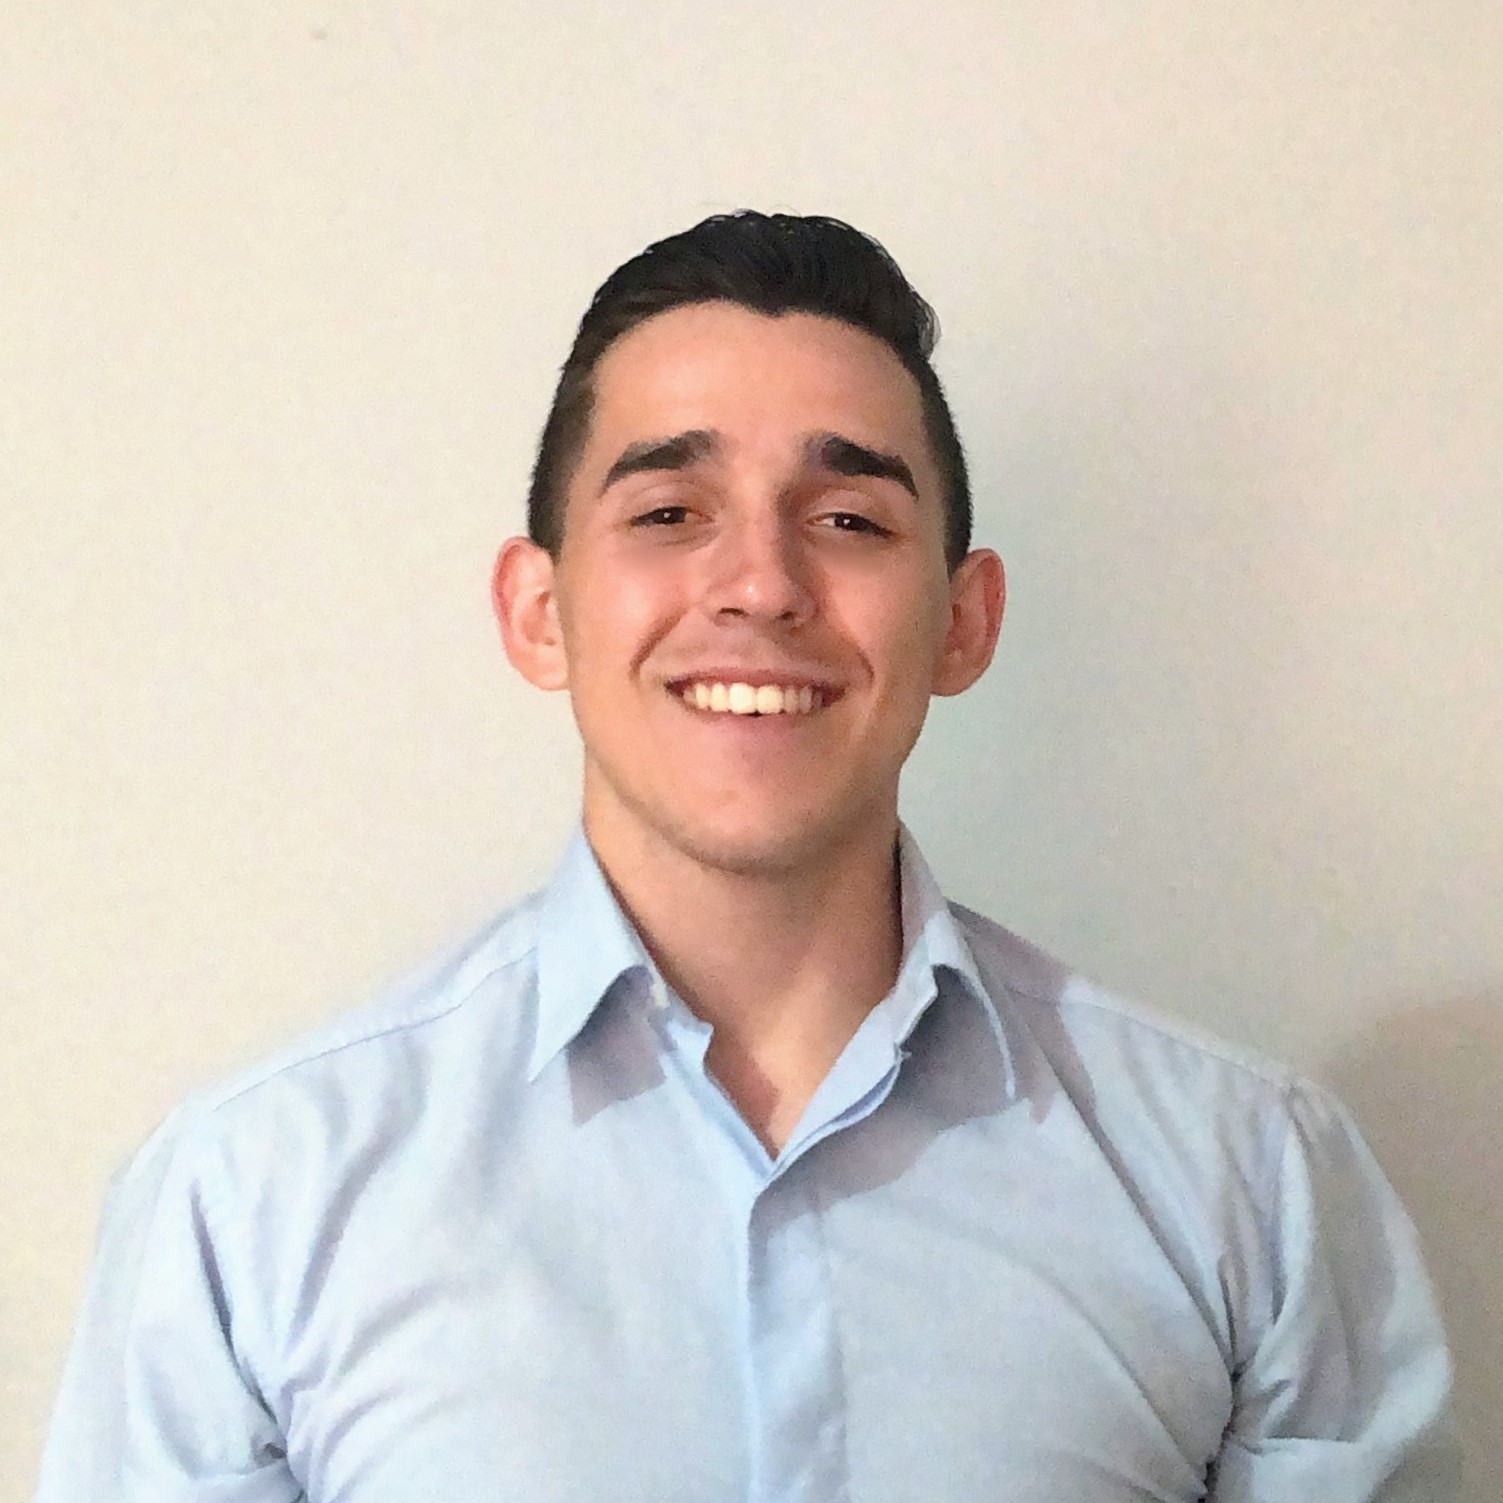
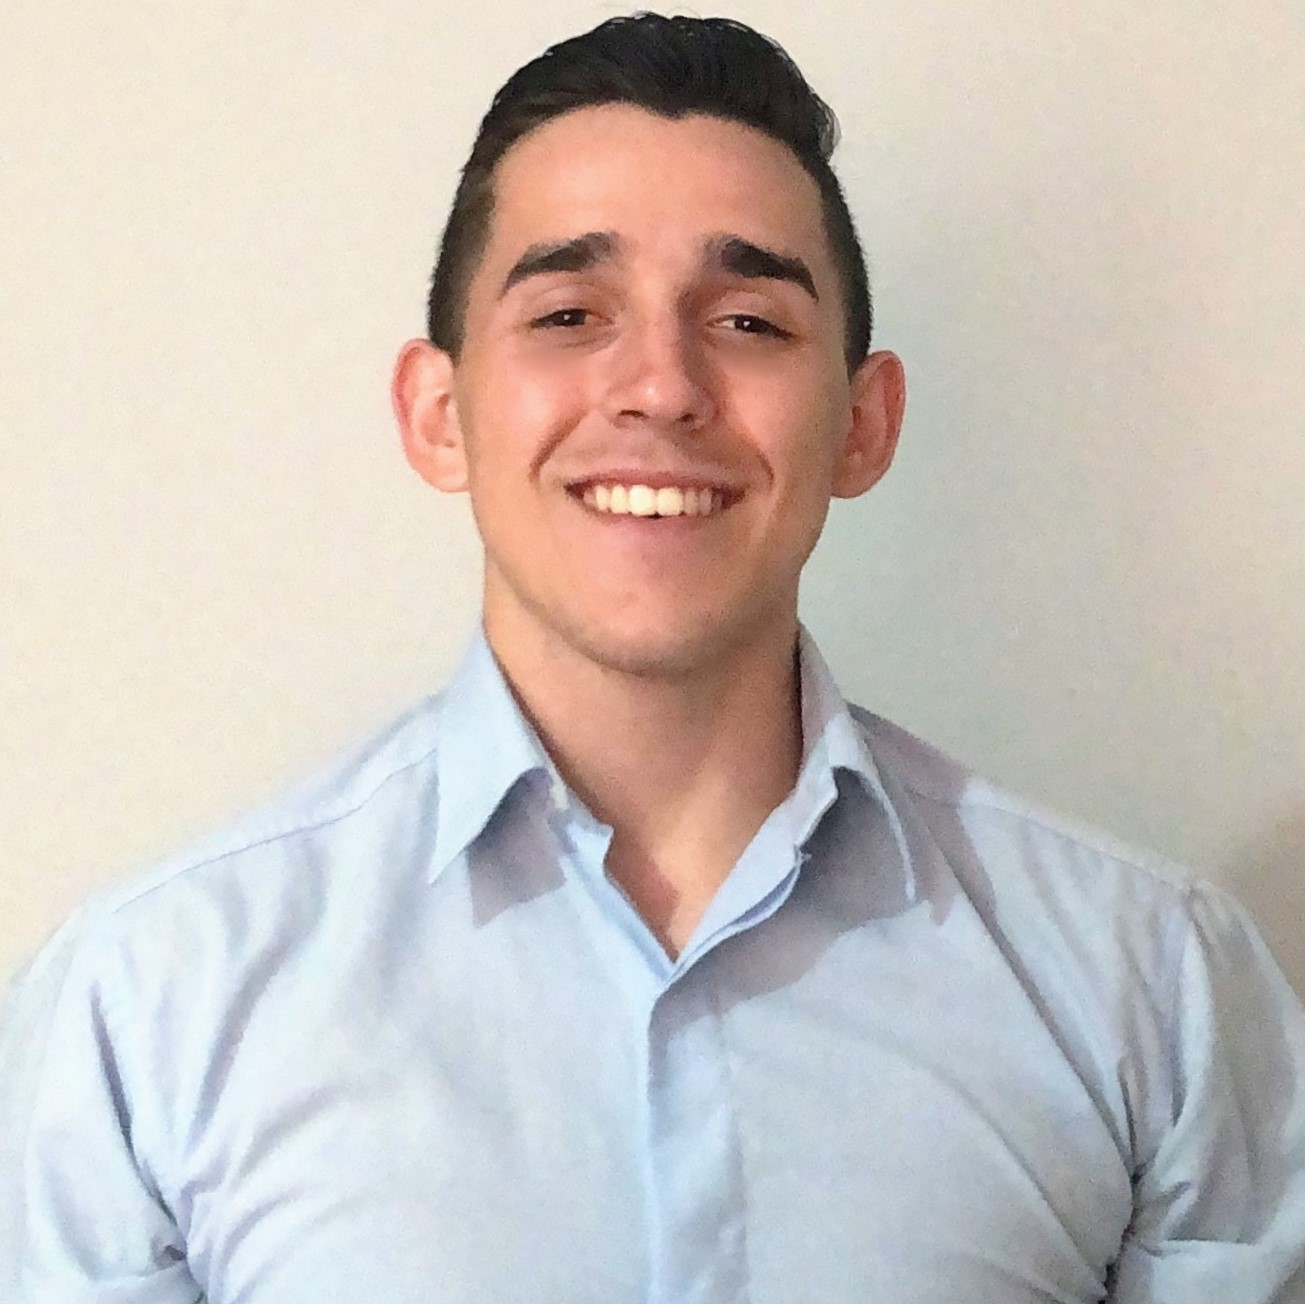
feat(Hooks): created useScroll

diff --git a/src/components/SkillsCards/SkillsCards.tsx b/src/components/SkillsCards/SkillsCards.tsx
@@ -1,32 +1,54 @@
 import  React        from "react";
 import { useEffect } from "react";
 import { useRef }    from "react";
+import { useScroll } from "../../hooks";
 
 const SkillsCards: React.FC = () => {
   const frontSkillsRef = useRef<HTMLDivElement>(null);
   const backSkillsRef  = useRef<HTMLDivElement>(null);
   const toolsSkillsRef = useRef<HTMLDivElement>(null);
 
-  const handleScroll = () => {
-    const backSkillsElement :HTMLDivElement  = backSkillsRef.current;
-    const frontSkillsElement:HTMLDivElement = frontSkillsRef.current;
-    const toolSkillsElement :HTMLDivElement  = toolsSkillsRef.current;
-
-    if (frontSkillsElement && frontSkillsElement.getBoundingClientRect().top < window.innerHeight) {
-      frontSkillsElement.className = "max-[565px]:flex max-[565px]:flex-col max-[500px]:w-80 opacity-100 duration-[0.7s] ease-in-out" ;
-    }
-    if (backSkillsElement && backSkillsElement.getBoundingClientRect().top < window.innerHeight) {
-      backSkillsElement.className = "max-[565px]:flex max-[565px]:flex-col max-[500px]:w-80  max-[500px]:mt-10 opacity-100 duration-[1.3s] ease-in-out" ;
-    }
-    if (toolSkillsElement && toolSkillsElement.getBoundingClientRect().top < window.innerHeight) {
-      toolSkillsElement.className = "max-[565px]:flex max-[565px]:flex-col max-[500px]:w-80  max-[500px]:mt-10 opacity-100 duration-[1.8s] ease-in-out" ;
-    }
-  };
-
   useEffect(() => {
-    window.addEventListener("scroll", handleScroll);
+    window.addEventListener("scroll", () => {
+      // eslint-disable-next-line react-hooks/rules-of-hooks
+      useScroll({
+        references: [
+          { 
+          reference: frontSkillsRef,
+          classNameProperties: "max-[565px]:flex max-[565px]:flex-col max-[500px]:w-80" 
+          },
+          { 
+          reference: backSkillsRef,
+          classNameProperties: "max-[565px]:flex max-[565px]:flex-col max-[500px]:w-80  max-[500px]:mt-10" 
+          },
+          { 
+          reference: toolsSkillsRef,
+          classNameProperties: "max-[565px]:flex max-[565px]:flex-col max-[500px]:w-80  max-[500px]:mt-10" 
+          },
+        ]
+      })
+    });
+
     return () => {
-      window.removeEventListener("scroll", handleScroll);
+      window.removeEventListener("scroll", () => {
+        // eslint-disable-next-line react-hooks/rules-of-hooks
+        useScroll({
+          references: [
+            { 
+            reference: frontSkillsRef,
+            classNameProperties: "max-[565px]:flex max-[565px]:flex-col max-[500px]:w-80" 
+            },
+            { 
+            reference: backSkillsRef,
+            classNameProperties: "max-[565px]:flex max-[565px]:flex-col max-[500px]:w-80  max-[500px]:mt-10" 
+            },
+            { 
+            reference: toolsSkillsRef,
+            classNameProperties: "max-[565px]:flex max-[565px]:flex-col max-[500px]:w-80  max-[500px]:mt-10" 
+            },
+          ]
+        })
+      });
     };
   }, []);
 

diff --git a/src/components/ProjectCard/AlignLeftProjectCard.tsx b/src/components/ProjectCard/AlignLeftProjectCard.tsx
@@ -4,7 +4,7 @@ import { Link }           from "react-router-dom";
 import  React             from "react";
 import { useEffect }      from "react";
 import { useRef }         from "react";
-import { useOpacity }     from "../../hooks";
+import { useOpacity, useScroll }     from "../../hooks";
 
 interface IProps {
   title:        string;
@@ -21,12 +21,6 @@ const AlignLeftProjectCard: React.FC<IProps> = ({
 }) => {
   const cardRef = useRef<HTMLDivElement>(null);
 
-  const handleScroll = () => {
-    if (cardRef.current && cardRef.current.getBoundingClientRect().top < window.innerHeight) {
-      cardRef.current.className = "flex relative gap-5 h-96 w-[70%] max-lg:w-full  max-lg:relative max-lg:flex max-lg:flex-col max-lg:items-center max-lg:justify-center opacity-100 duration-[1s] ease-in-out" ;
-    }
-  };
-
   if(isFirstItem) {
     // eslint-disable-next-line react-hooks/rules-of-hooks
     useOpacity({
@@ -39,10 +33,26 @@ const AlignLeftProjectCard: React.FC<IProps> = ({
   }
 
   useEffect(() => {
-    window.addEventListener("scroll", handleScroll);
+    window.addEventListener("scroll", () => {
+      // eslint-disable-next-line react-hooks/rules-of-hooks
+      useScroll({
+        references: [{ 
+          reference: cardRef,
+          classNameProperties: "flex relative gap-5 h-96 w-[70%] max-lg:w-full  max-lg:relative max-lg:flex max-lg:flex-col max-lg:items-center max-lg:justify-center" 
+        }]
+      })
+    });
 
     return () => {
-      window.removeEventListener("scroll", handleScroll);
+      window.removeEventListener("scroll", () => {
+        // eslint-disable-next-line react-hooks/rules-of-hooks
+        useScroll({
+          references: [{ 
+            reference: cardRef,
+            classNameProperties: "flex relative gap-5 h-96 w-[70%] max-lg:w-full  max-lg:relative max-lg:flex max-lg:flex-col max-lg:items-center max-lg:justify-center" 
+          }]
+        })
+      });
     };
 
   }, [isFirstItem]);

diff --git a/src/components/ProjectCard/AlignRightProjectCard.tsx b/src/components/ProjectCard/AlignRightProjectCard.tsx
@@ -4,6 +4,7 @@ import { Link }           from "react-router-dom";
 import  React             from "react";
 import { useEffect }      from "react";
 import { useRef }         from "react";
+import { useScroll }      from "../../hooks";
 
 interface IProps {
   title:        string;
@@ -20,16 +21,28 @@ const AlignRightProjectCard: React.FC<IProps> = ({
 }) => {
   const cardRef = useRef<HTMLDivElement>(null);
 
-  const handleScroll = () => {
-    if (cardRef.current && cardRef.current.getBoundingClientRect().top < window.innerHeight) {
-      cardRef.current.className = "flex gap-5 h-96 w-[70%] max-lg:w-full  max-lg:relative max-lg:flex max-lg:flex-col max-lg:items-center max-lg:justify-center opacity-100 duration-[1s] ease-in-out" ;
-    }
-  };
 
   useEffect(() => {
-    window.addEventListener("scroll", handleScroll);
+    window.addEventListener("scroll", () => {
+      // eslint-disable-next-line react-hooks/rules-of-hooks
+      useScroll({
+        references: [{ 
+          reference: cardRef,
+          classNameProperties: "flex gap-5 h-96 w-[70%] max-lg:w-full  max-lg:relative max-lg:flex max-lg:flex-col max-lg:items-center max-lg:justify-center" 
+        }]
+      })
+    });
+
     return () => {
-      window.removeEventListener("scroll", handleScroll);
+      window.removeEventListener("scroll", () => {
+        // eslint-disable-next-line react-hooks/rules-of-hooks
+        useScroll({
+          references: [{ 
+            reference: cardRef,
+            classNameProperties: "flex gap-5 h-96 w-[70%] max-lg:w-full  max-lg:relative max-lg:flex max-lg:flex-col max-lg:items-center max-lg:justify-center" 
+          }]
+        })
+      });
     };
   }, []);
 

diff --git a/src/hooks/index.ts b/src/hooks/index.ts
@@ -3,12 +3,12 @@ interface IReference {
   classNameProperties?: string,
 }
 
-interface useOpacityProps {
+interface IParams {
   references: Array<IReference>;
-  miliseconds: number;
+  miliseconds?: number;
 } 
 
-export const useOpacity = ({ references, miliseconds }: useOpacityProps) => {
+export const useOpacity = ({ references, miliseconds }: IParams) => {
   setTimeout(() => {
     references.forEach(reference => {
       const elementReference = reference.reference.current;
@@ -18,4 +18,15 @@ export const useOpacity = ({ references, miliseconds }: useOpacityProps) => {
       } 
     })
   }, miliseconds)
+};
+
+
+export const useScroll = ({ references }: IParams) => {
+  references.forEach(reference => {
+    const element: HTMLDivElement = reference.reference.current;
+
+    if(element && element.getBoundingClientRect().top < window.innerHeight) {
+      element.className = `opacity-100 duration-[1s] ease-in-out ${reference.classNameProperties}`;
+    } 
+  })
 };

diff --git a/src/components/About/About.tsx b/src/components/About/About.tsx
@@ -50,7 +50,7 @@ const About:React.FC = () => {
             <p className=" mt-2 mb-10 ml-0 mr-0 text-4xl font-bold uppercase text-slate-300">Learn more about me</p>
 
             <div className=" flex justify-around mb-16 w-full gap-10 items-center max-md:flex-col duration-[1s] ease-in-out">
-              <img src={profile} className="max-h-72 rounded-middle max-lg:max-h-60" alt="profile_picture" />
+              <img src={profile} className="max-h-80 rounded-middle max-lg:max-h-60" alt="profile_picture" />
               <div className="content">
                 <h3 className=" font-bold text-2xl text-blue-400 mb-3">Full Stack Web Developer</h3>
                 <p className=" max-w-3xl ">
